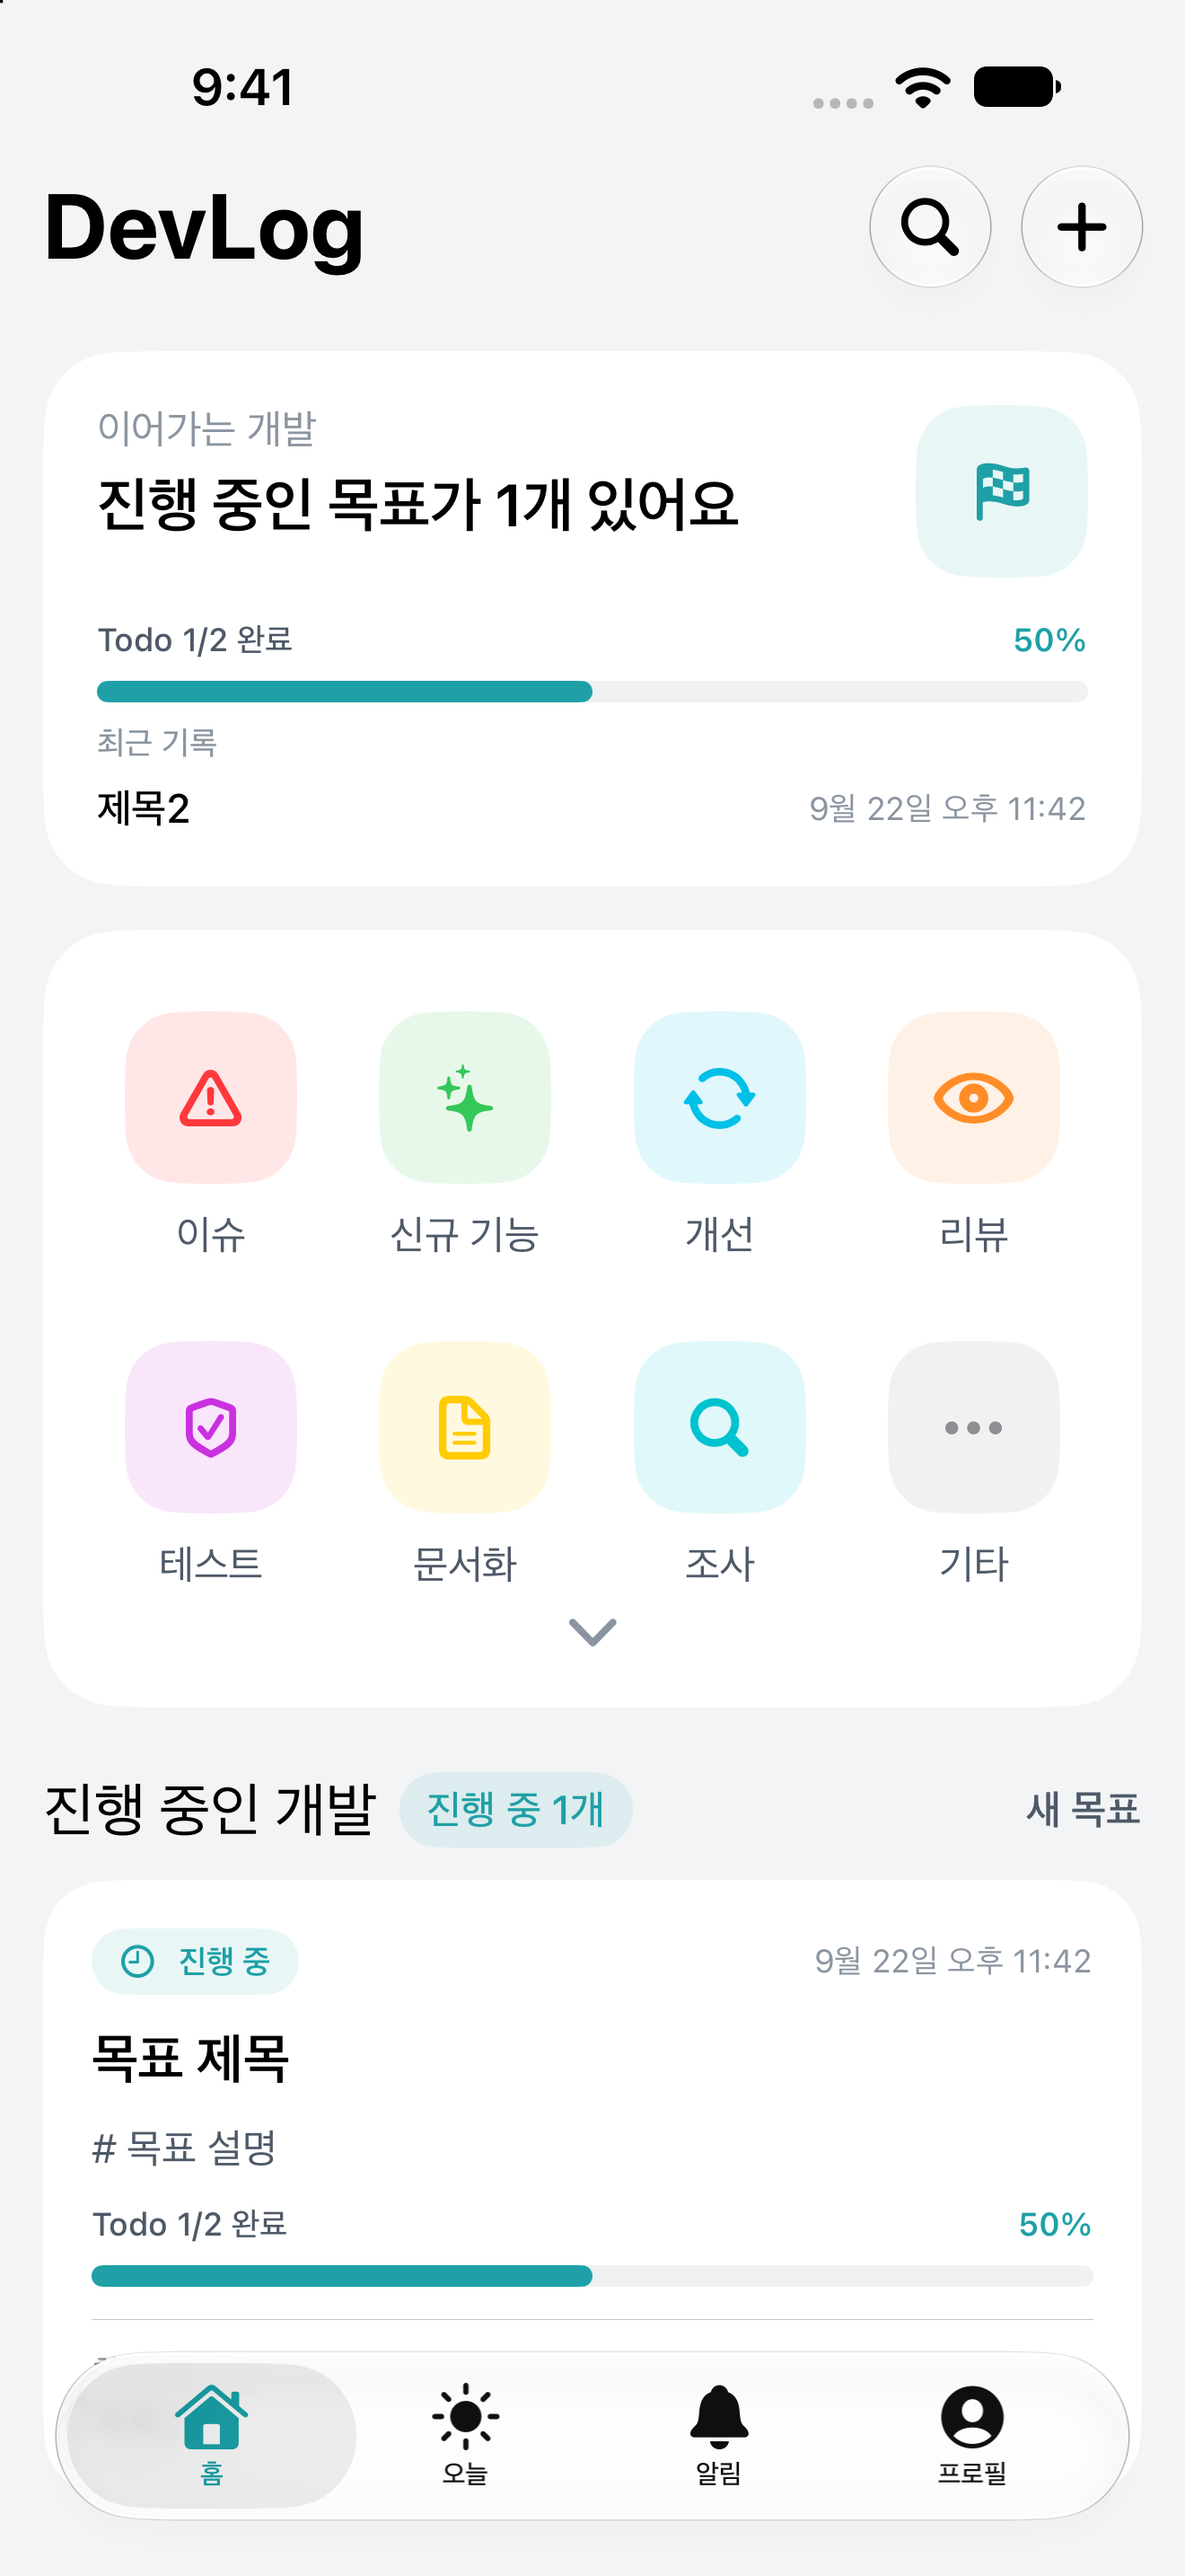
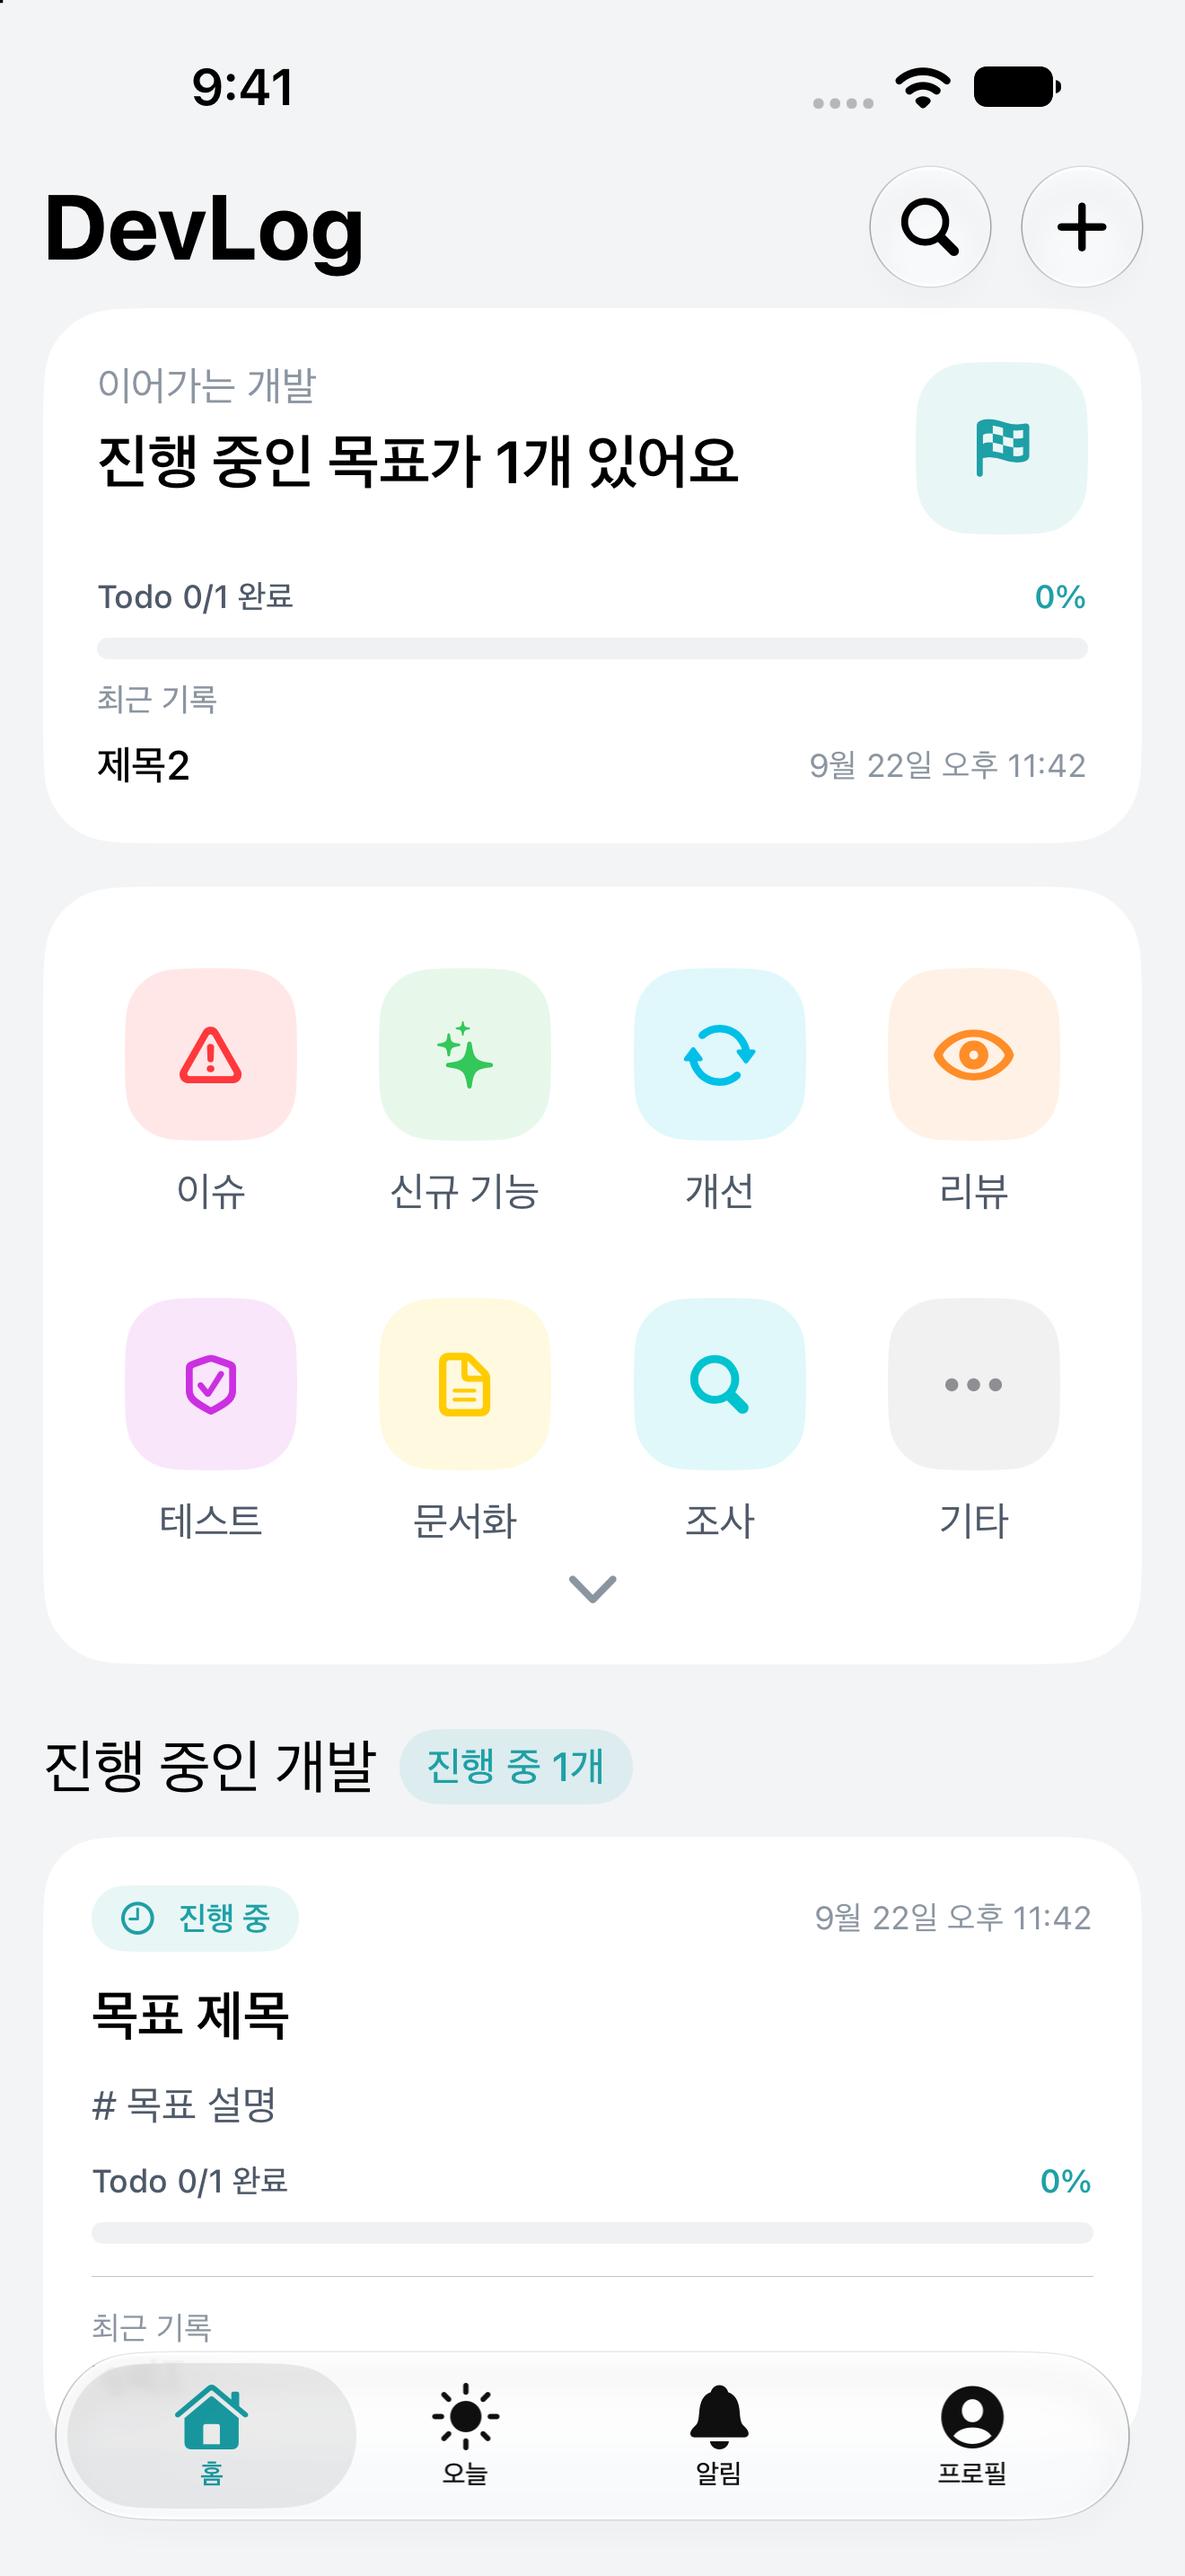
ui: Home 개발 목표 섹션의 새 목표 버튼 제거

diff --git a/Application/Presentation/HomeTab/Sources/Home/DevelopmentGoalSection.swift b/Application/Presentation/HomeTab/Sources/Home/DevelopmentGoalSection.swift
@@ -13,7 +13,6 @@ struct DevelopmentGoalSection: View {
     let isLoading: Bool
     let hasLoaded: Bool
     let hasLoadFailure: Bool
-    let onCreate: () -> Void
     let onSelect: (DevelopmentGoalItem) -> Void
     let onRetry: () -> Void
 
@@ -95,11 +94,6 @@ struct DevelopmentGoalSection: View {
                 .background(Color.accent.opacity(0.1), in: .capsule)
             }
             Spacer()
-            Button(action: onCreate) {
-                Text("home_development_goal_create", bundle: PresentationResources.bundle)
-                    .font(.subheadline.weight(.semibold))
-                    .foregroundStyle(Color.textSecondary)
-            }
         }
     }
 }

diff --git a/Application/Presentation/HomeTab/Sources/Home/HomeView.swift b/Application/Presentation/HomeTab/Sources/Home/HomeView.swift
@@ -58,7 +58,6 @@ public struct HomeView: View {
                         isLoading: store.isDevelopmentGoalsLoading,
                         hasLoaded: store.hasDevelopmentGoalsLoaded,
                         hasLoadFailure: store.hasDevelopmentGoalsLoadFailure,
-                        onCreate: { store.send(.view(.tapCreateDevelopmentGoal)) },
                         onSelect: { store.send(.view(.tapDevelopmentGoal($0.id))) },
                         onRetry: { store.send(.view(.fetchData)) }
                     )
